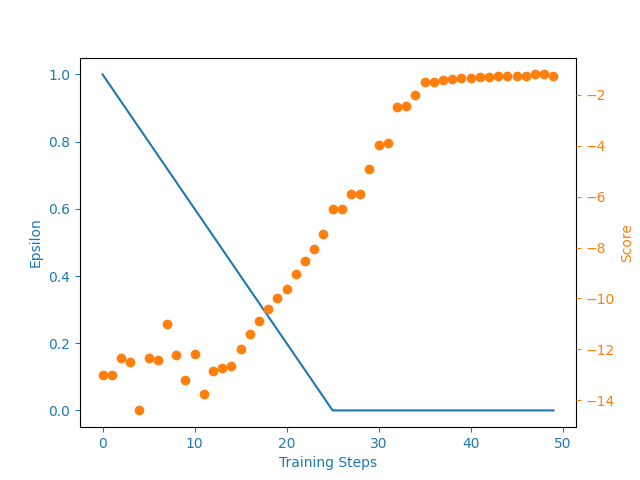
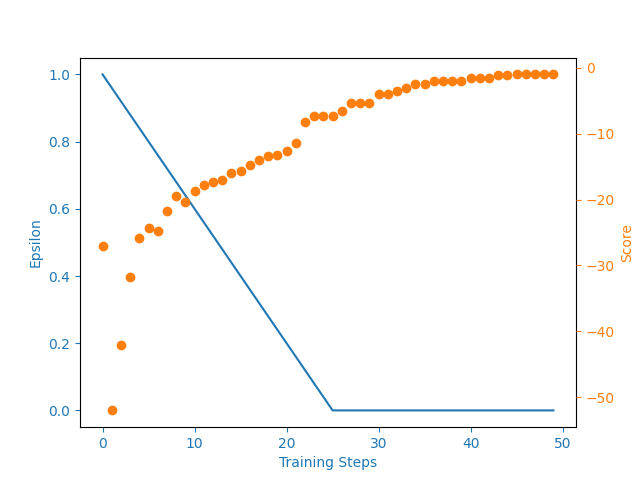
Referencia depende de la capacidad

diff --git a/modelo/q_learn_environment.py b/modelo/q_learn_environment.py
@@ -84,7 +84,7 @@ class QNEnv(object):
         chosen_link = links[chosen_action]
 
         # === Valor de tráfico de referencia que se va a mover
-        reference_bw = get_reference_bw(chosen_link['capacidad'])
+        reference_bw = get_reference_bw(congested_link['capacidad'])
 
         congested_link['bw'] -= reference_bw
         congested_link['congestionado'] = is_congested(congested_link)
